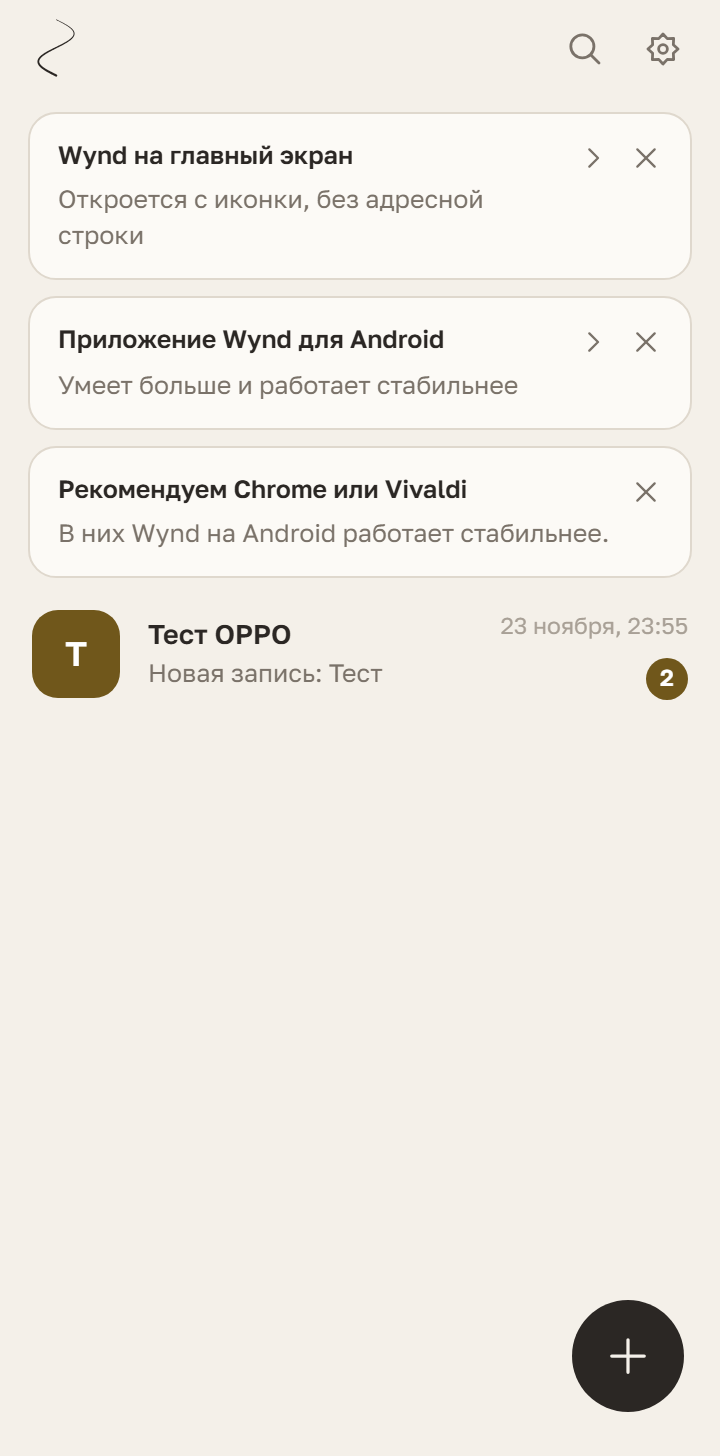
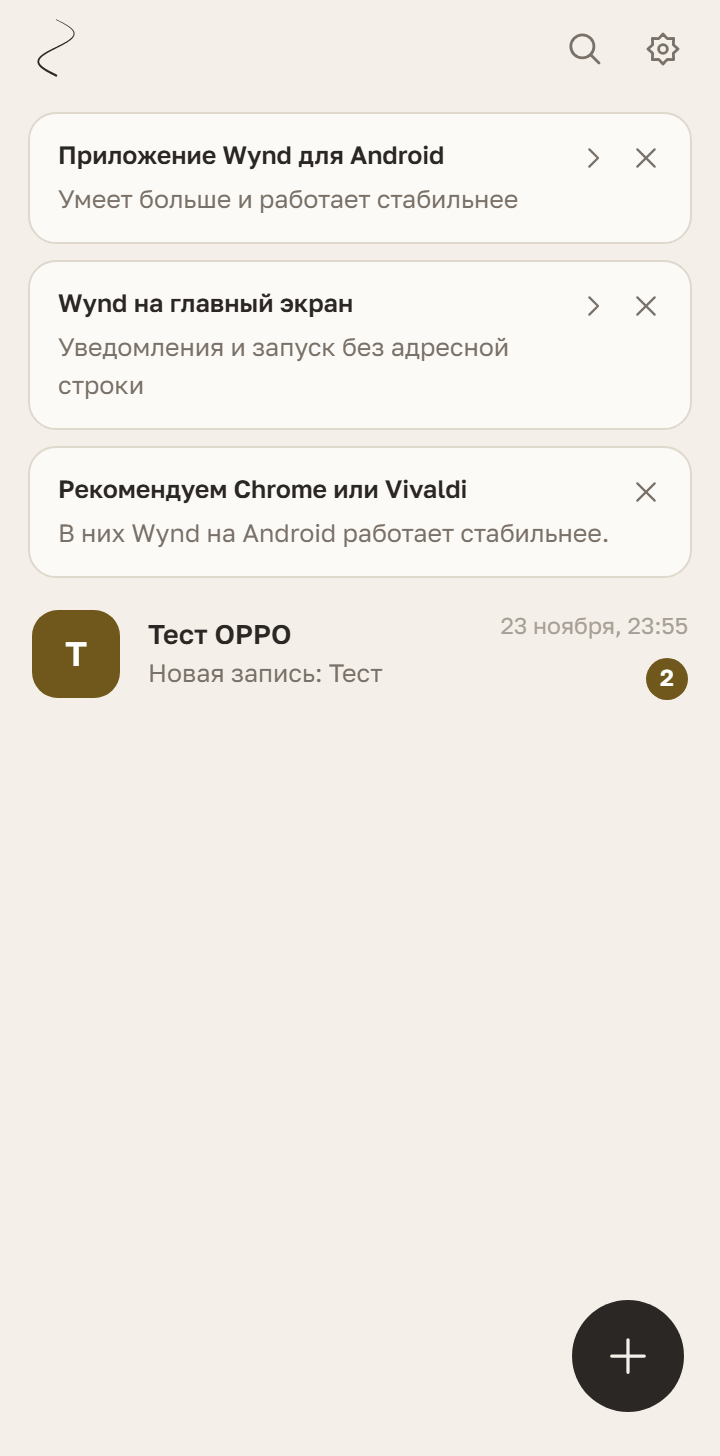
План 74: рекомендация поставить приложение — первой, в PWA — уведомления
Слово владельца 26.11 после кадров: «Баннер с рекомендацией поставить
первым. Про pwa надо добавить про уведомления». Порядок на улочке:
«Приложение Wynd для Android», ниже «Wynd на главный экран», ниже
«Что нового?» и подсказка о браузере. Текст PWA-баннера —
«Уведомления и запуск без адресной строки».

Кадры 360 × 728 DPR 2 пересняты (Firefox на Android, круг «Тест OPPO»
с wynd2); окно шагов установки без изменений.

diff --git a/web/src/lib/layouts/StreetLayout.svelte b/web/src/lib/layouts/StreetLayout.svelte
@@ -667,27 +667,27 @@
 					ondismiss={() => (androidUpdate.hidden = true)}
 				/>
 			{/if}
-			{#if newsUnseen && !empty}
-				<NewsBanner
-					version={latestNewsVersion()}
-					onclick={() => goto('/settings/news?from=circles')}
-					ondismiss={hideNews}
-				/>
-			{/if}
-			{#if pwaHint && !empty}
-				<NewsBanner
-					title="Wynd на главный экран"
-					text="Откроется с иконки, без адресной строки"
-					onclick={() => void installPwa()}
-					ondismiss={hidePwaHint}
-				/>
-			{/if}
 			{#if appHint && !empty}
 				<NewsBanner
 					title="Приложение Wynd для Android"
 					text="Умеет больше и работает стабильнее"
 					onclick={() => goto('/app')}
 					ondismiss={hideAppHint}
+				/>
+			{/if}
+			{#if pwaHint && !empty}
+				<NewsBanner
+					title="Wynd на главный экран"
+					text="Уведомления и запуск без адресной строки"
+					onclick={() => void installPwa()}
+					ondismiss={hidePwaHint}
+				/>
+			{/if}
+			{#if newsUnseen && !empty}
+				<NewsBanner
+					version={latestNewsVersion()}
+					onclick={() => goto('/settings/news?from=circles')}
+					ondismiss={hideNews}
 				/>
 			{/if}
 			{#if browserHint && !empty}

diff --git a/docs/plans/74-pwa-install-banner.plan.md b/docs/plans/74-pwa-install-banner.plan.md
@@ -7,7 +7,7 @@
 ## Решения владельца (26.11)
 
 1. **Показывать** в Chrome, Vivaldi, Safari и Firefox — во всех браузерах; не только в Chrome/Vivaldi.
-2. **Порядок** — сначала баннер про веб-приложение, ниже баннер про приложение для Android.
+2. **Порядок** — рекомендация поставить приложение первой, баннер про веб-приложение ниже. Слово владельца 26.11 после кадров; раньше было наоборот. Оба баннера — выше «Что нового?».
 
 ## Что можем отличить
 
@@ -20,7 +20,7 @@
 
 - `web/src/lib/pwa/install.ts` — перехват `beforeinstallprompt` (Chromium) и `promptPwaInstall()`: системное окно установки, одноразовое событие; `runningStandalone()` — «уже с домашнего экрана». Вызов перехвата — в корневом `+layout`.
 - `web/src/lib/session/pwaHint.ts` — показ/закрытие баннера (`wynd:pwa-hint-closed`, как у соседних подсказок) и шаги установки по браузеру: Safari на телефоне — «Поделиться» → «На экран „Домой“»; Firefox — «Установить»/«Добавить на главный экран»; Safari на компьютере — «Добавить в Dock»; Chrome на Android — «Установить приложение»; компьютер — значок в адресной строке. В Firefox на компьютере установки нет — баннера нет.
-- Баннер на улочке **выше** баннера про приложение: `title` «Wynd на главный экран», `text` «Откроется с иконки, без адресной строки», шеврон и крестик. Нажатие: есть системное окно — открываем его; нет — окно с шагами меню (`Dialog` + `Scrim`, кнопка «Понятно»). Поставили — баннер исчезает.
+- Баннер на улочке **под** баннером про приложение: `title` «Wynd на главный экран», `text` «Уведомления и запуск без адресной строки» (слово владельца 26.11 — про уведомления), шеврон и крестик. Нажатие: есть системное окно — открываем его; нет — окно с шагами меню (`Dialog` + `Scrim`, кнопка «Понятно»). Поставили — баннер исчезает.
 - Тесты: `pwaHint.test.ts` (10) — браузеры, установленная PWA, окно Wynd, Firefox на компьютере, крестик, шаги по браузерам; `install.test.ts` (4) — без события «unavailable», системное окно и выбор, отписка, `standalone`. svelte-check 0/0, 703 теста, lint и check:ui зелёные.
 
 ## Кадры

diff --git a/docs/testing/pwa-banner-2026-11-26.md b/docs/testing/pwa-banner-2026-11-26.md
@@ -1,8 +1,8 @@
 # Баннер «Wynd на главный экран»
 
 26 ноября 2026. Задача владельца — [план 74](../plans/74-pwa-install-banner.plan.md).
-Решения: показывать в Chrome/Vivaldi/Safari/Firefox; веб-приложение выше
-баннера про приложение для Android.
+Решения: показывать в Chrome/Vivaldi/Safari/Firefox; рекомендация поставить
+приложение первой, веб-приложение ниже; в баннере PWA — про уведомления.
 
 ## Кадры
 
@@ -10,14 +10,14 @@
 DPR 2**, светлая тема, строка браузера **Firefox на Android**, круг «Тест OPPO»
 с сервера wynd2. «Что нового?» отмечено прочитанным.
 
-- [Улочка: три баннера](pwa-banner-2026-11-26/street.png) — «Wynd на главный экран»,
-  «Приложение Wynd для Android», «Рекомендуем Chrome или Vivaldi».
+- [Улочка: три баннера](pwa-banner-2026-11-26/street.png) — «Приложение Wynd для Android»,
+  «Wynd на главный экран», «Рекомендуем Chrome или Vivaldi».
 - [Шаги установки](pwa-banner-2026-11-26/help.png) — нажатие баннера в стенде: системного
   окна нет (стенд без служебного воркера), показаны шаги для Firefox.
 
 ## Что проверено
 
-- Баннер стоит выше баннера про приложение, ниже «Что нового?» — как решил владелец.
+- Баннер стоит ниже баннера про приложение и выше «Что нового?» — как решил владелец.
 - Нажатие без системного окна открывает шаги по браузеру; в Chrome/Vivaldi
   `beforeinstallprompt` даст своё окно установки, шагов не будет.
 - Закрытие баннера пишется на устройство (`wynd:pwa-hint-closed`); установленная

diff --git a/docs/CHANGELOG.md b/docs/CHANGELOG.md
@@ -11,7 +11,7 @@
 ### Добавлено
 
 - На Android в веб-версии над списком кругов — баннер «Приложение Wynd для Android»: ведёт на страницу установки с пользой, шагами и кнопкой скачивания последнего выпуска. В приложении Wynd баннера нет; в нерекомендованном браузере ниже остаётся подсказка про Chrome или Vivaldi ([план 73](plans/73-android-app-banner.plan.md)).
-- В браузере на телефоне и компьютере — баннер «Wynd на главный экран»: Chrome и Vivaldi открывают своё окно установки, Firefox и Safari показывают шаги меню. В установленной PWA и в приложении Wynd баннера нет ([план 74](plans/74-pwa-install-banner.plan.md)).
+- В браузере на телефоне и компьютере — баннер «Wynd на главный экран» с уведомлениями: Chrome и Vivaldi открывают своё окно установки, Firefox и Safari показывают шаги меню. Рекомендация поставить приложение стоит выше; в установленной PWA и в приложении Wynd баннера нет ([план 74](plans/74-pwa-install-banner.plan.md)).
 
 ### Исправлено
 
